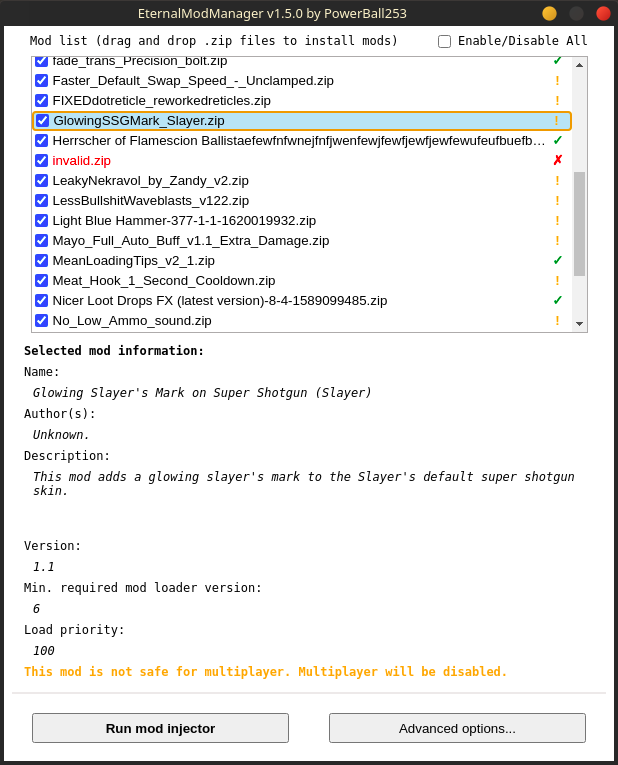
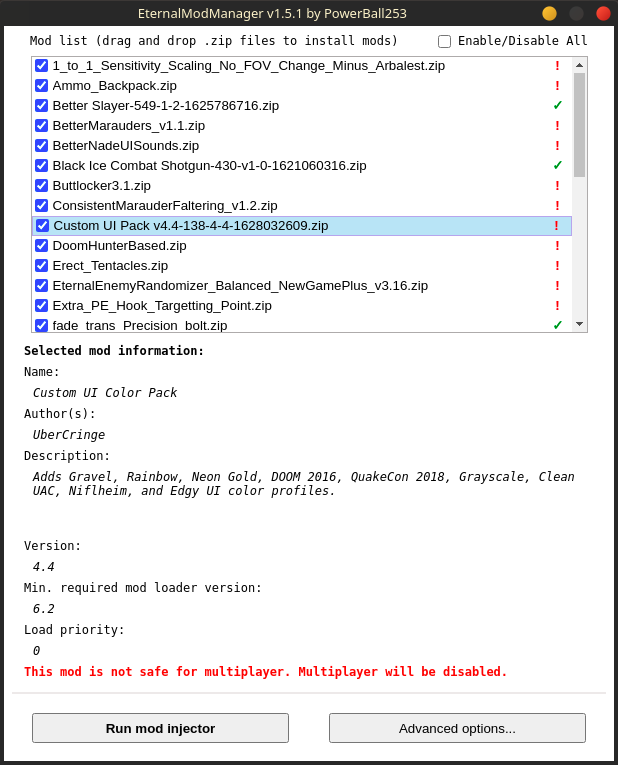
Bug fixes & optimization

diff --git a/src/ts/index.ts b/src/ts/index.ts
@@ -1,7 +1,7 @@
 import path from 'path';
 import fs from 'fs';
 import { ipcRenderer } from 'electron';
-import fileWatcher from 'chokidar';
+import fileWatcher, { FSWatcher } from 'chokidar';
 import admZip, { IZipEntry } from 'adm-zip';
 import dragDrop from 'drag-drop';
 
@@ -9,6 +9,7 @@ const gamePath = process.argv.slice(-1)[0];
 const settingsPath = path.join(gamePath, 'EternalModInjector Settings.txt');
 const modsPath = path.join(gamePath, 'Mods');
 const disabledModsPath = path.join(gamePath, 'DisabledMods');
+let watcher: FSWatcher;
 
 // Class containing mod info
 class ModInfo {
@@ -220,14 +221,14 @@ function loadModIntoFragment(fragment: DocumentFragment, mod: string[]): void {
         onlineSafeCheck.title = 'This mod is safe for multiplayer.';
     }
     else if (onlyLoadOnlineSafeMods) {
-        onlineSafeCheck.style.color = 'red';
+        onlineSafeCheck.style.color = 'orange';
         onlineSafeCheck.innerHTML = '<strong>!&nbsp</strong>';
         onlineSafeCheck.title = 'This mod is not safe for multiplayer. It will not be loaded.';
         modName.style.color = 'gray';
         modCheckbox.disabled = true;
     }
     else {
-        onlineSafeCheck.style.color = 'orange';
+        onlineSafeCheck.style.color = 'red';
         onlineSafeCheck.innerHTML = '<strong>!&nbsp</strong>';
         onlineSafeCheck.title = 'This mod is not safe for multiplayer. Multiplayer will be disabled if this mod is enabled.';
     }
@@ -251,11 +252,11 @@ function loadModIntoFragment(fragment: DocumentFragment, mod: string[]): void {
         }
         else {
             if (onlyLoadOnlineSafeMods) {
-                modOnlineSafety.style.color = 'red';
+                modOnlineSafety.style.color = 'orange';
                 modOnlineSafety.innerHTML = '<strong>This mod is not safe for multiplayer. It will not be loaded.</strong>';
             }
             else {
-                modOnlineSafety.style.color = 'orange';
+                modOnlineSafety.style.color = 'red';
 
                 if (modCheckbox.checked) {
                     modOnlineSafety.innerHTML = '<strong>This mod is not safe for multiplayer. Multiplayer will be disabled.</strong>';
@@ -318,7 +319,7 @@ function initWatcher(): void {
     makeModDirectories();
 
     // Watch the game directory
-    let watcher = fileWatcher.watch(path.join(modsPath, '..'), {
+    watcher = fileWatcher.watch(path.join(modsPath, '..'), {
         ignored: /[\/\\]\./,
         persistent: true,
         depth: 1
@@ -356,6 +357,8 @@ function initCheckList(): void {
 
     // Make checkbox enable/disable the rest of the checkboxes
     topCheckbox.addEventListener('change', (event) => {
+        watcher.unwatch(path.join(modsPath, '..'));
+
         if ((event.currentTarget! as HTMLInputElement).checked) {
             while (disabledMods.length > 0) {
                 (disabledMods[0] as HTMLInputElement).checked = true;
@@ -370,6 +373,8 @@ function initCheckList(): void {
                 mods[0].className = 'disabled-mod';
             }
         }
+
+        initWatcher();
     });
 }
 

diff --git a/src/css/misc.css b/src/css/misc.css
@@ -1,0 +1,25 @@
+/* Taken from https://gist.github.com/Splode/a2ae4f5dbfaca98efad9f93f51832146 */
+
+/* disable selection */
+:not(input):not(textarea),
+:not(input):not(textarea)::after,
+:not(input):not(textarea)::before {
+    -webkit-user-select: none;
+    user-select: none;
+    cursor: default;
+}
+input, button, textarea, :focus {
+    outline: none;
+}
+
+/* disable image and anchor dragging */
+a:not([draggable=true]), img:not([draggable=true]) {
+    -webkit-user-drag: none;
+    user-drag: none;
+}
+a[href^="http://"],
+a[href^="https://"],
+a[href^="ftp://"] {
+    -webkit-user-drag: auto;
+    user-drag: auto;
+}

diff --git a/src/html/terminal.html b/src/html/terminal.html
@@ -6,6 +6,7 @@
     <meta http-equiv="X-Content-Security-Policy" content="default-src 'self'; script-src 'self' 'unsafe-inline'" />
     <link rel="stylesheet" href="../../node_modules/xterm/css/xterm.css" />
     <script src="../../node_modules/xterm/lib/xterm.js"></script>
+    <link rel="stylesheet" href="../css/misc.css" />
     <link rel="stylesheet" href="../css/terminal.css" />
     <title>Terminal</title>
 </head>

diff --git a/src/html/index.html b/src/html/index.html
@@ -5,6 +5,7 @@
     <meta http-equiv="Content-Security-Policy" content="default-src 'self'; script-src 'self' 'unsafe-inline'" />
     <meta http-equiv="X-Content-Security-Policy" content="default-src 'self'; script-src 'self' 'unsafe-inline'" />
     <title>EternalModManager</title>
+    <link rel="stylesheet" href="../css/misc.css" />
     <link rel="stylesheet" href="../css/index.css" />
 </head>
     <body>

diff --git a/src/html/advanced.html b/src/html/advanced.html
@@ -5,6 +5,7 @@
     <meta http-equiv="Content-Security-Policy" content="default-src 'self'; script-src 'self' 'unsafe-inline'" />
     <meta http-equiv="X-Content-Security-Policy" content="default-src 'self'; script-src 'self' 'unsafe-inline'" />
     <title>Advanced options</title>
+    <link rel="stylesheet" href="../css/misc.css" />
     <link rel="stylesheet" href="../css/advanced.css" />
 </head>
 <body>

diff --git a/src/html/info.html b/src/html/info.html
@@ -5,6 +5,7 @@
     <meta http-equiv="Content-Security-Policy" content="default-src 'self'; script-src 'self' 'unsafe-inline'" />
     <meta http-equiv="X-Content-Security-Policy" content="default-src 'self'; script-src 'self' 'unsafe-inline'" />
     <title></title>
+    <link rel="stylesheet" href="../css/misc.css" />
     <link rel="stylesheet" href="../css/info.css" />
 </head>
 <body>
